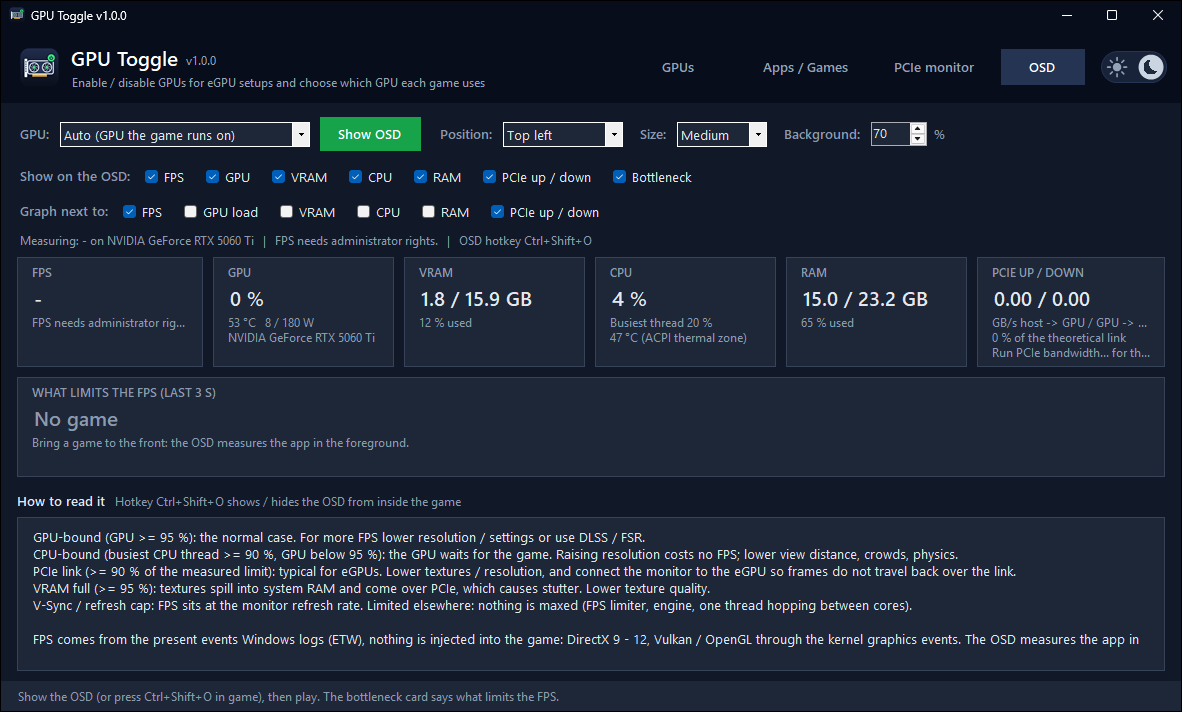
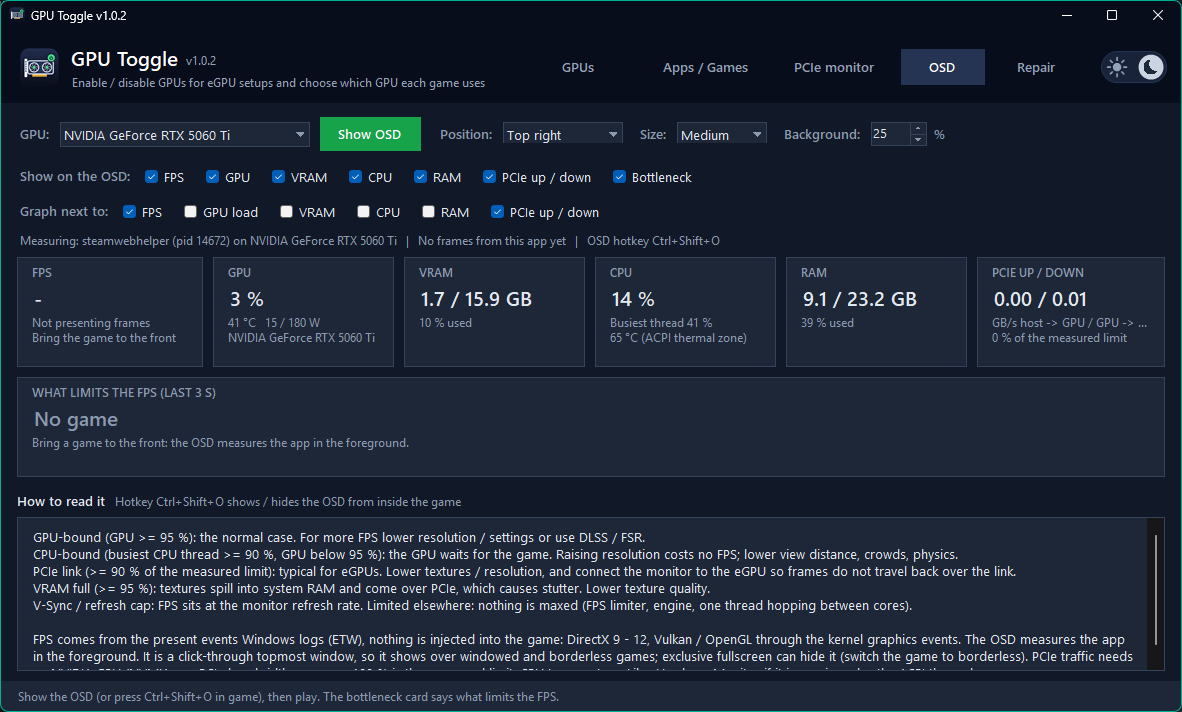
Chụp lại trang PCIe monitor và OSD của GPU Toggle bản v1.0.2
- Ảnh PCIe monitor và OSD theo giao diện mới (ô chọn, ô số, thẻ số liệu tối màu)
- Cập nhật số đo giới hạn PCIe: 3,86 GB/s (49 % link), kèm lưu ý nên đo lúc máy rảnh

diff --git a/src/content/projects/gpu-toggle-tools.md b/src/content/projects/gpu-toggle-tools.md
@@ -60,12 +60,12 @@ Cài đặt được ghi vào đúng chỗ của *Settings → System → Displa
 
 Với eGPU, đường truyền thường là thứ giới hạn đầu tiên. App chép khối dữ liệu 64 MB giữa RAM và VRAM theo cả hai chiều, bấm giờ bằng timestamp của GPU, nên chạy được với card NVIDIA, AMD lẫn Intel.
 
-Kết quả hiện link PCIe đang chạy (ví dụ `Gen4 x4`), băng thông lý thuyết và tốc độ đo thực tế. App tự nhận ra eGPU cắm qua USB4 / Thunderbolt. Trên máy mình, eGPU RTX 5060 Ti chạy link Gen4 x4 đo được khoảng 3,3 GB/s mỗi chiều, chỉ bằng 42 % con số lý thuyết 7,88 GB/s.
+Kết quả hiện link PCIe đang chạy (ví dụ `Gen4 x4`), băng thông lý thuyết và tốc độ đo thực tế. App tự nhận ra eGPU cắm qua USB4 / Thunderbolt. Trên máy mình, eGPU RTX 5060 Ti chạy link Gen4 x4 đo được khoảng 3,8 GB/s mỗi chiều, chưa tới một nửa con số lý thuyết 7,88 GB/s. Nên đo lúc máy rảnh: đo khi game đang chạy, con số sẽ thấp hơn thật vì game chiếm sẵn một phần đường truyền.
 
 Với card NVIDIA, trang **PCIe monitor** ghi lưu lượng 4 lần mỗi giây khi bạn chơi game. Đồ thị tô đỏ những lúc bị nghẽn, kèm nhật ký từng lần nghẽn và nút xuất file CSV.
 
 ![Trang PCIe monitor: các thẻ Link limit, Now, Average, Peak, Bottleneck time và đồ thị lưu lượng PCIe trong 2 phút](../../assets/uploads/gpu-toggle-pcie.png)
-*PCIe monitor sau 2 phút ghi. Giới hạn đo thực tế là 3,32 GB/s (42 % link), nên app tự đặt ngưỡng nghẽn ở 41 %. Lúc chụp máy chỉ chạy desktop nên lưu lượng còn thấp.*
+*PCIe monitor vừa bắt đầu ghi. Giới hạn đo thực tế là 3,86 GB/s (49 % link), nên app tự đặt ngưỡng nghẽn ở 48 %. Lúc chụp máy chỉ chạy desktop nên lưu lượng gần như bằng 0.*
 
 ## OSD trong game
 
